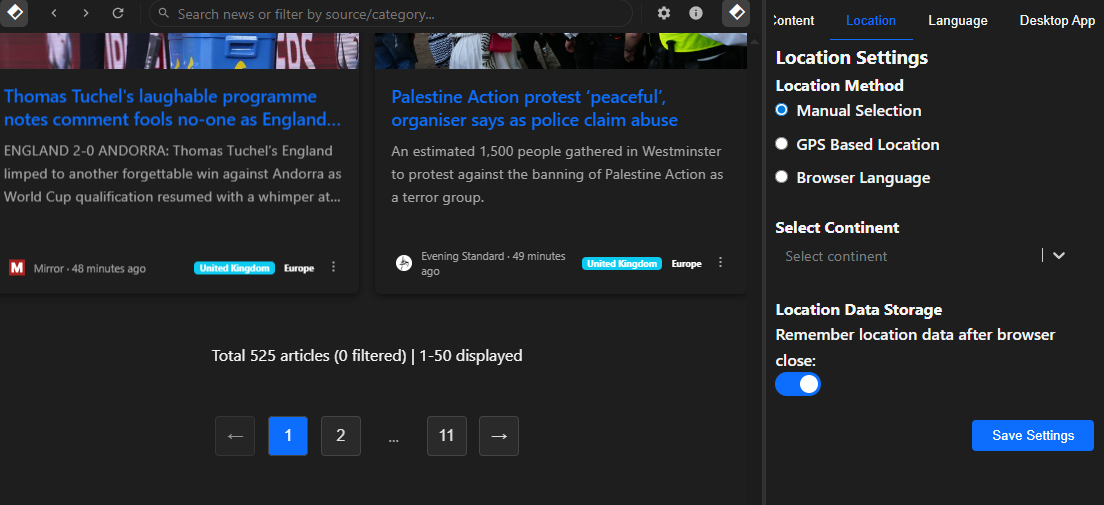
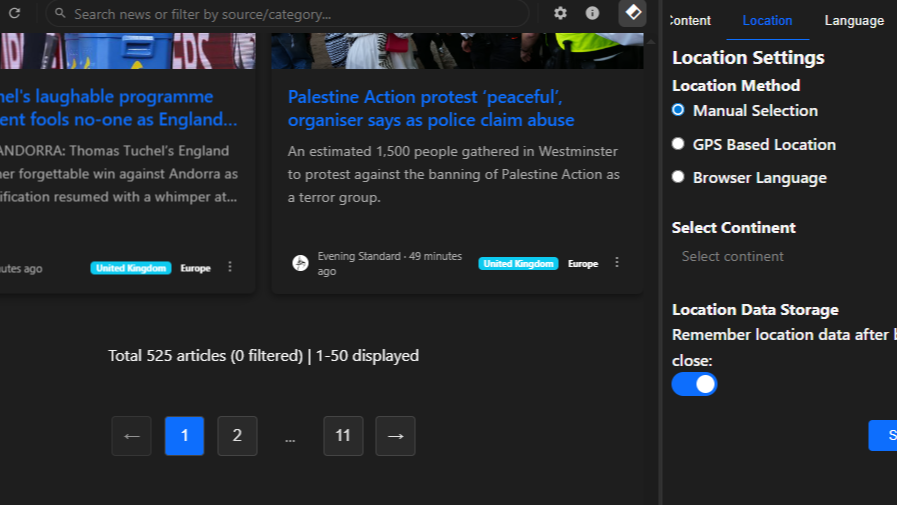
Update screenshots to uniform size for better layout

diff --git a/README.md b/README.md
@@ -39,7 +39,7 @@ This is a web application that brings native software functionality to the brows
         <strong>Central Workspace</strong>
       </p>
       <a href="docs/screenshots/main-screen-1.png">
-        <img src="docs/screenshots/main-screen-1.png" alt="NewsLyfe main view" width="90%"/>
+        <img src="docs/screenshots/main-screen-1.png" alt="NewsLyfe main view"/>
       </a>
     </td>
     <td width="50%" valign="top">
@@ -47,7 +47,7 @@ This is a web application that brings native software functionality to the brows
         <strong>Real-time Filtering</strong>
       </p>
       <a href="docs/screenshots/main-screen-2.png">
-        <img src="docs/screenshots/main-screen-2.png" alt="NewsLyfe filtering options" width="90%"/>
+        <img src="docs/screenshots/main-screen-2.png" alt="NewsLyfe filtering options"/>
       </a>
     </td>
   </tr>
@@ -57,7 +57,7 @@ This is a web application that brings native software functionality to the brows
         <strong>Advanced Customization</strong>
       </p>
       <a href="docs/screenshots/main-screen-3.png">
-        <img src="docs/screenshots/main-screen-3.png" alt="NewsLyfe customization panel" width="80%"/>
+        <img src="docs/screenshots/main-screen-3.png" alt="NewsLyfe customization panel"/>
       </a>
     </td>
   </tr>
